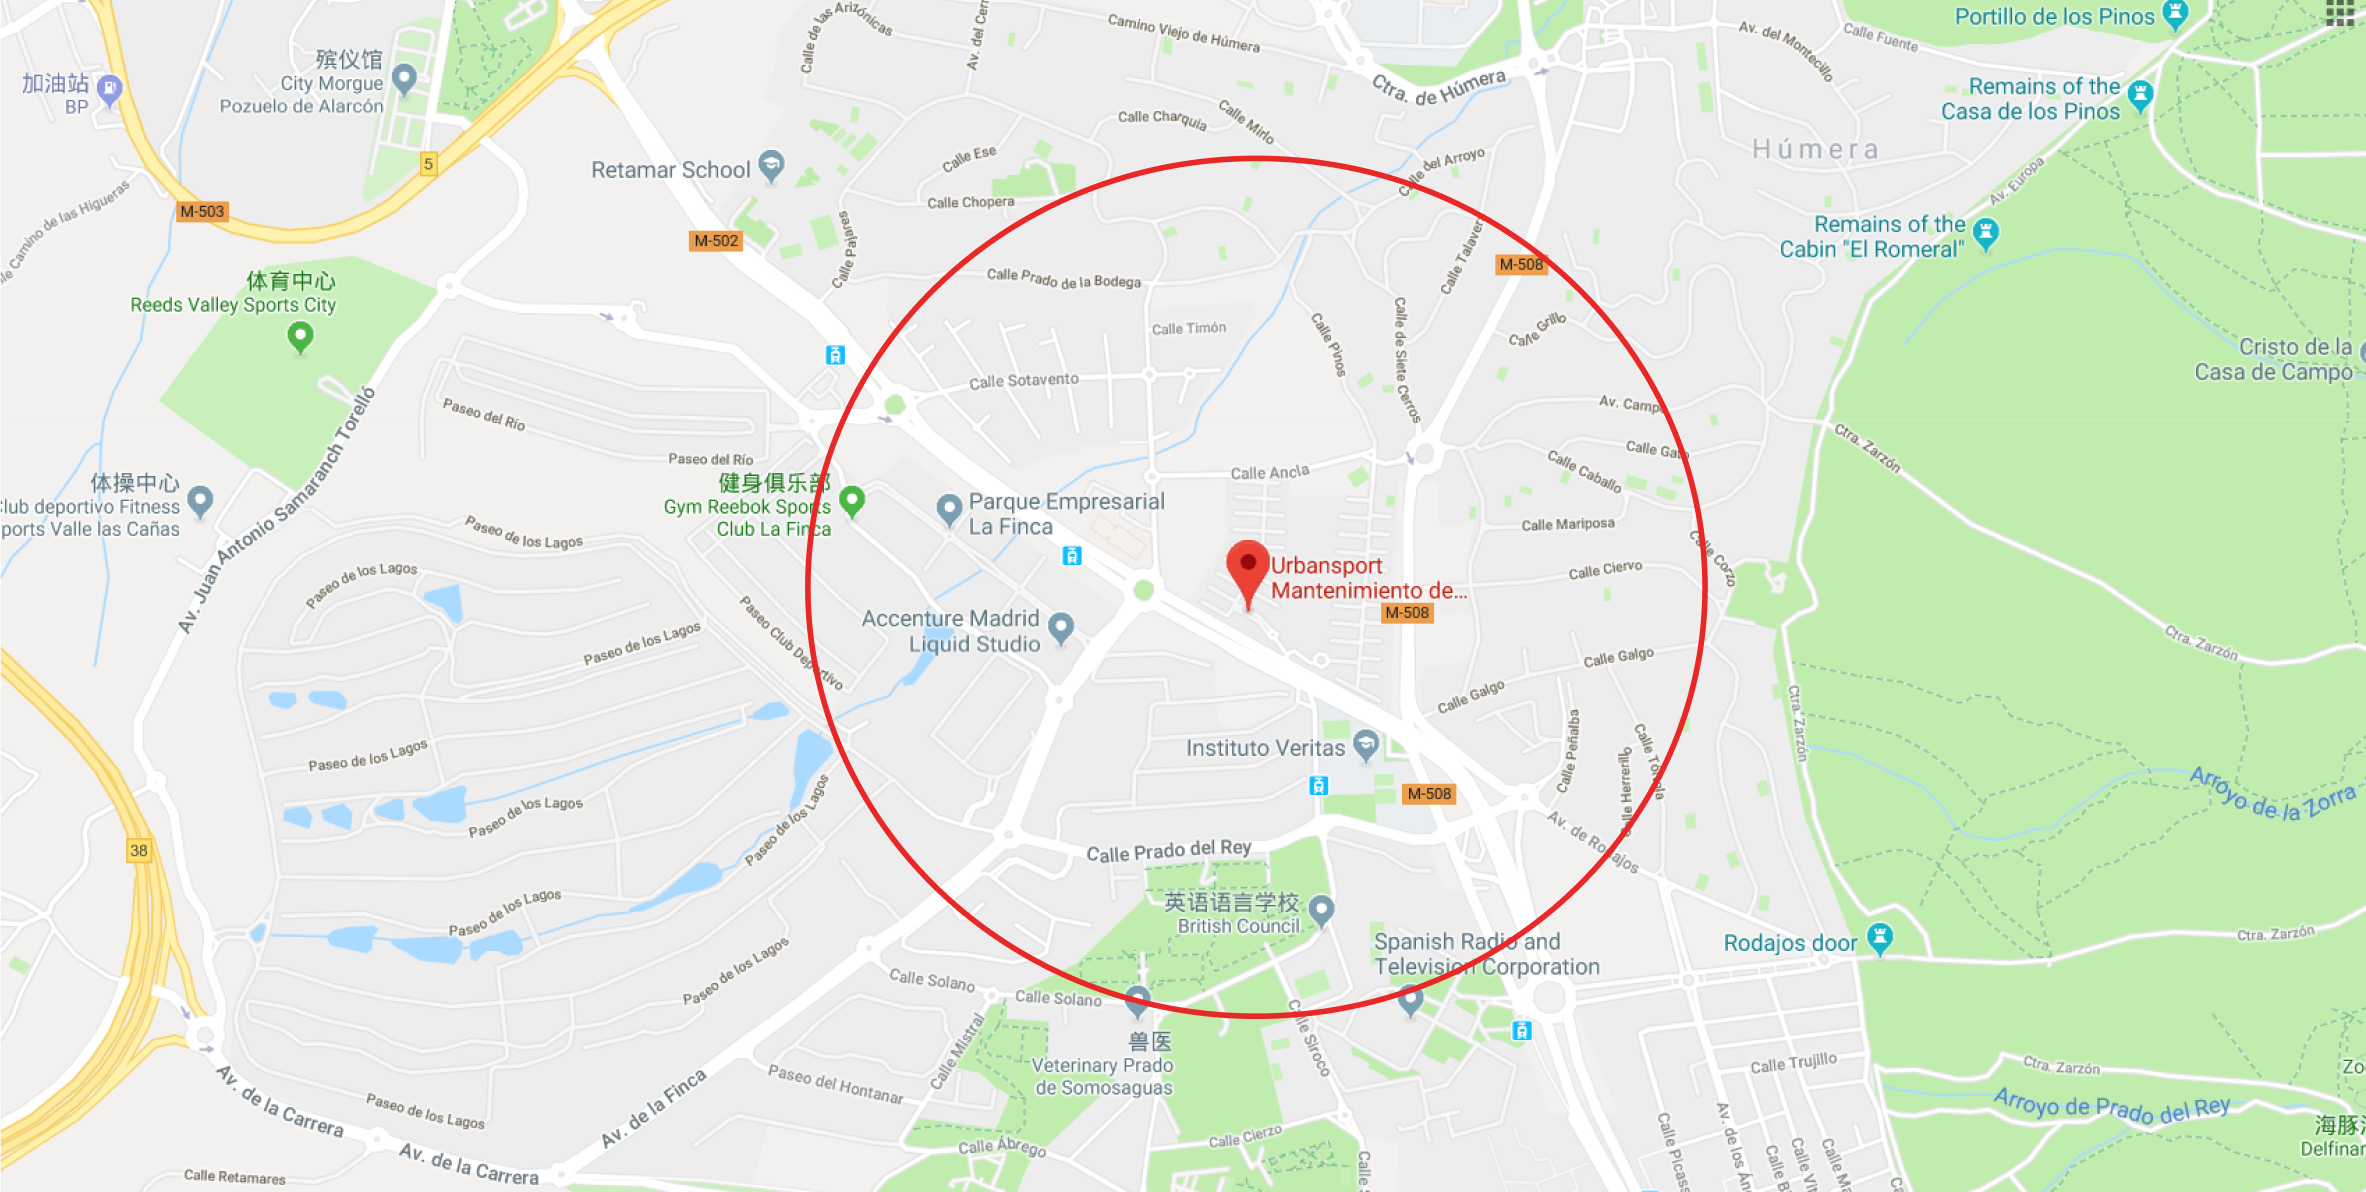
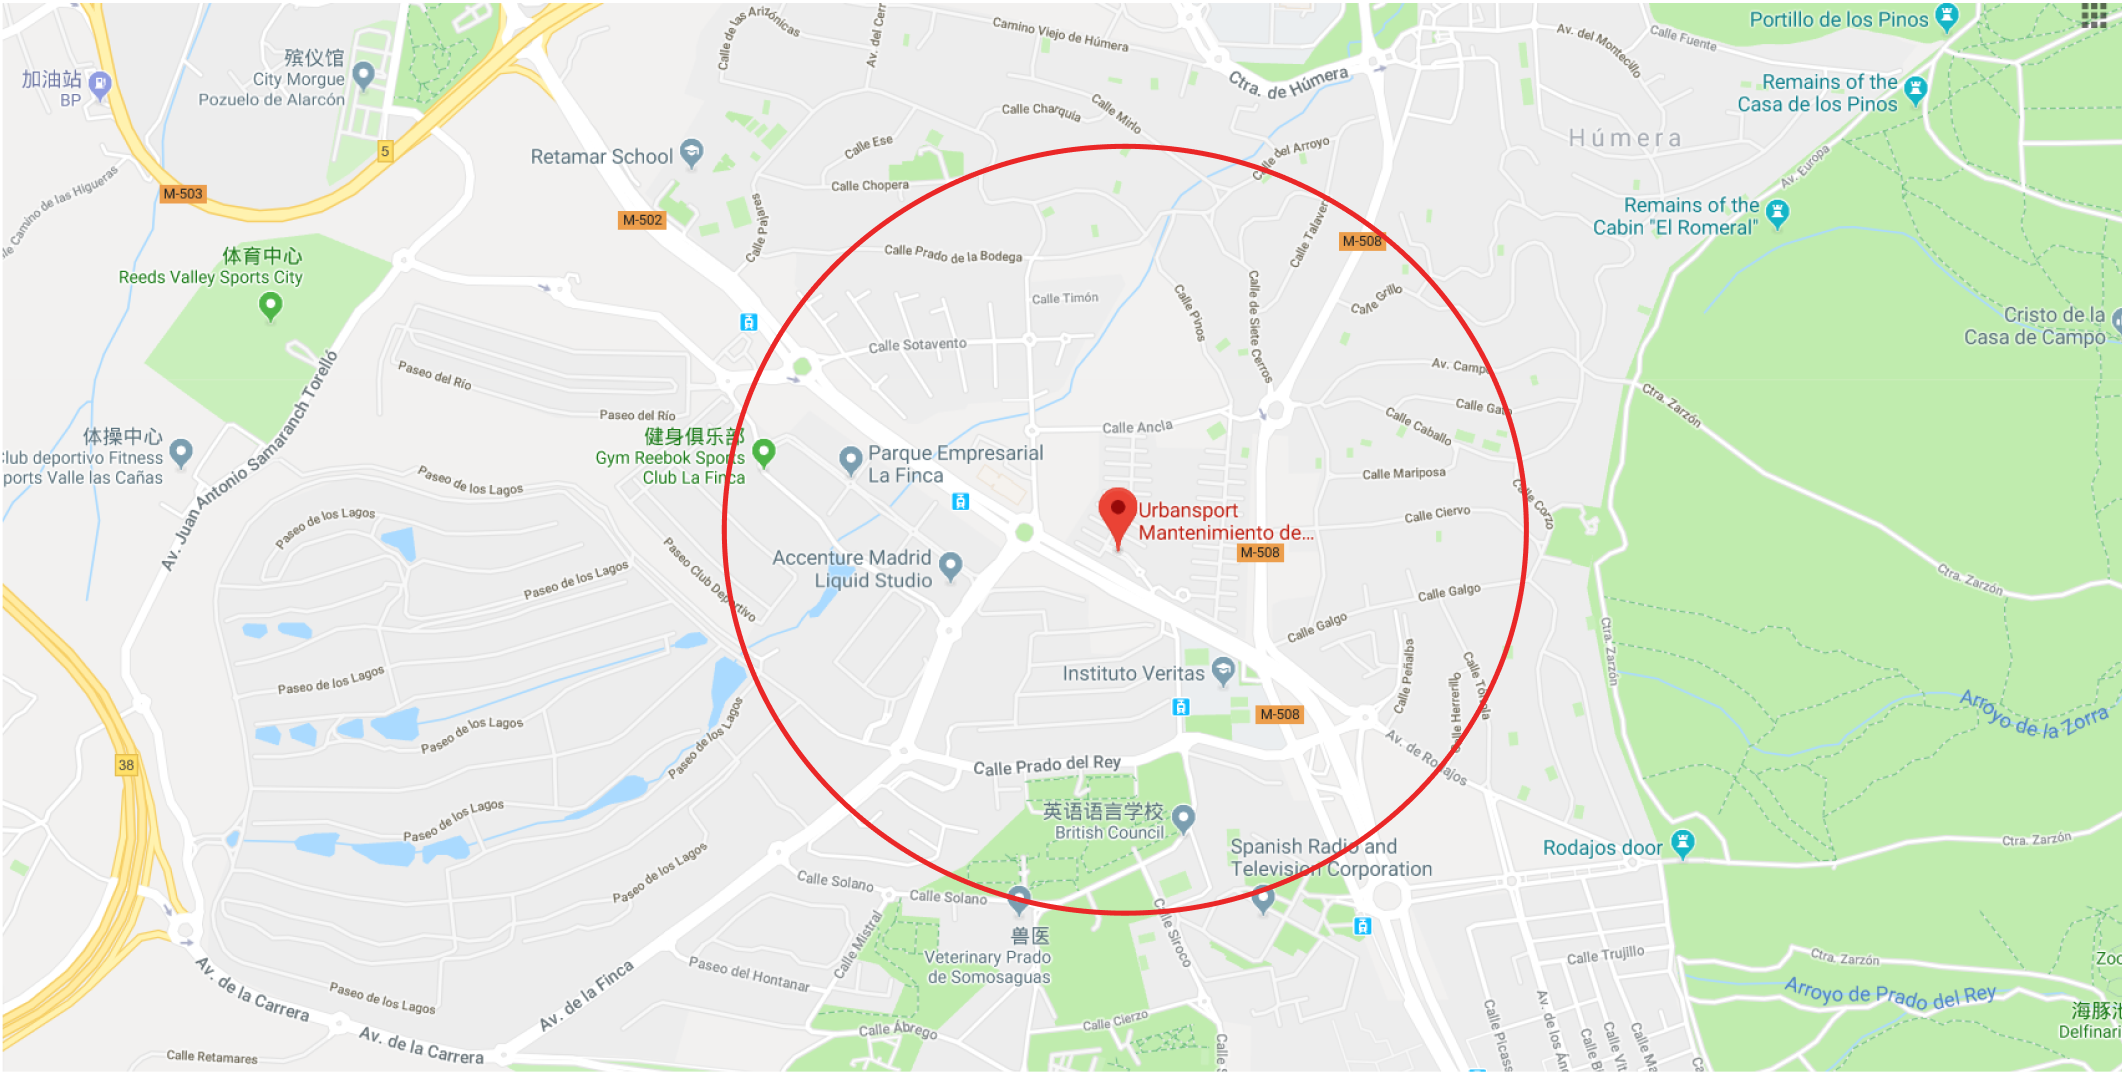
map functionality and change from hobbies to groups

diff --git a/pages/eventResults.html b/pages/eventResults.html
@@ -55,17 +55,12 @@
         <div class="navbar">
           <ul class="nav nav-list">
             <li><a href="../index.html"><i class="fas fa-th-large"></i> Dashboard</a></li>
-<<<<<<< HEAD
-            <li><a href="selectHobbyTask1.html"><i class="fas fa-search"></i> Explore Hobbies</a></li>
+            <li><a href="selectHobbyTask1.html"><i class="fas fa-search"></i> Explore Groups</a></li>
             <li class="active"><a href="eventResults.html"><i class="fas fa-calendar-alt"></i> Events</a></li>
-=======
-            <li><a href="../pages/selectHobbyTask1.html"><i class="fas fa-search"></i> Explore Hobbies</a></li>
-            <li class="active"><a href="../pages/eventResults.html"><i class="fas fa-calendar-alt"></i> Events</a></li>
->>>>>>> 7f60f68c6cbd1ad69116b3836e712dbfebb6b14e
             <li class="dropdown"><a class="dropdown-toggle" data-toggle="dropdown" href="#"s><i class="fas fa-users"></i> My Groups</a>
               <ul class="dropdown-menu" role="menu">
                 <li><a href="#">Padel Moncloa</a></li>
-                <li><a href="../pages/Aluche group page.html">Aluche Group Padel</a></li>
+                <li><a href="Aluche group page.html">Aluche Group Padel</a></li>
                 <li><a href="#">Japanese in Madrid</a></li>
                 <li class="divider"></li>
                 <li><a href="#">Create a new group</a></li>
@@ -84,7 +79,7 @@
       <div class="col-md-8" id="main-content-scroll">
 
         <div id="group_title" style="background-color:#4682B4">
-          <h3 style="text-align: center; color:white;">Results</h3>
+          <h3 style="text-align: center; color:white;">Results obtained</h3>
         </div>
 
         <a data-toggle="modal" data-target="#underConst">

diff --git a/pages/filtersTask1.html b/pages/filtersTask1.html
@@ -55,7 +55,7 @@
         <div class="navbar">
           <ul class="nav nav-list">
             <li><a href="../index.html"><i class="fas fa-th-large"></i> Dashboard</a></li>
-            <li class="active"><a href="../pages/selectHobbyTask1.html"><i class="fas fa-search"></i> Explore Hobbies</a></li>
+            <li class="active"><a href="../pages/selectHobbyTask1.html"><i class="fas fa-search"></i> Explore Groups</a></li>
             <li><a href="../pages/eventResults.html"><i class="fas fa-calendar-alt"></i> Events</a></li>
             <li class="dropdown"><a class="dropdown-toggle" data-toggle="dropdown" href="#" s><i
                   class="fas fa-users"></i> My Groups</a>
@@ -96,7 +96,7 @@
 
           <h4>Your ideal location:</h4>
           <div class="container-fluid" id="maps">
-            <img src="../img/map3task1.png" alt="mymap" style="height: 350px;">
+            <img src="../img/map3task1.png" alt="mymap" style="height: 350px;" id="themap">
             <h5>Area no more than:
               <input class="form-control" type="number" value="3" id="number-input"
                 style=" width: 60px; height: 40px; display: inline;">
@@ -135,6 +135,11 @@
   b1.onclick = function() {
      b1.style.background = "#00a1d3";
      b1.style.color="white";
+  }
+
+  var numinput= document.getElementById("number-input");
+  numinput.onclick = function(){
+    document.getElementById("themap").src = "../img/map5task1.png";
   }
 </script>
 <!-- Footer -->

diff --git a/pages/groupResults.html b/pages/groupResults.html
@@ -55,7 +55,7 @@
         <div class="navbar">
           <ul class="nav nav-list">
             <li><a href="../index.html"><i class="fas fa-th-large"></i> Dashboard</a></li>
-            <li class="active"><a href="../pages/selectHobbyTask1.html"><i class="fas fa-search"></i> Explore Hobbies</a></li>
+            <li class="active"><a href="../pages/selectHobbyTask1.html"><i class="fas fa-search"></i> Explore Groups</a></li>
             <li><a href="../pages/eventResults.html"><i class="fas fa-calendar-alt"></i> Events</a></li>
             <li class="dropdown"><a class="dropdown-toggle" data-toggle="dropdown" href="#" s><i
                   class="fas fa-users"></i> My Groups</a>

diff --git a/pages/selectHobbyTask1.html b/pages/selectHobbyTask1.html
@@ -55,7 +55,7 @@
         <div class="navbar">
           <ul class="nav nav-list">
             <li><a href="../index.html"><i class="fas fa-th-large"></i> Dashboard</a></li>
-            <li class="active"><a href="../pages/selectHobbyTask1.html"><i class="fas fa-search"></i> Explore Hobbies</a></li>
+            <li class="active"><a href="../pages/selectHobbyTask1.html"><i class="fas fa-search"></i> Explore Groups</a></li>
             <li><a href="../pages/eventResults.html"><i class="fas fa-calendar-alt"></i> Events</a></li>
             <li class="dropdown"><a class="dropdown-toggle" data-toggle="dropdown" href="#" s><i
                   class="fas fa-users"></i> My Groups</a>

diff --git a/pages/Padel match page.html b/pages/Padel match page.html
@@ -76,7 +76,7 @@
         <div class="navbar">
           <ul class="nav nav-list">
             <li><a href="../index.html"><i class="fas fa-th-large"></i> Dashboard</a></li>
-            <li><a href="../pages/selectHobbyTask1.html"><i class="fas fa-search"></i> Explore Hobbies</a></li>
+            <li><a href="../pages/selectHobbyTask1.html"><i class="fas fa-search"></i> Explore Groups</a></li>
             <li class="active"><a href="../pages/eventResults.html"><i class="fas fa-calendar-alt"></i> Events</a></li>
             <li class="dropdown"><a class="dropdown-toggle" data-toggle="dropdown" href="#" s><i
                   class="fas fa-users"></i> My Groups</a>

diff --git a/index.html b/index.html
@@ -67,7 +67,7 @@
         <div class="navbar">
           <ul class="nav nav-list">
             <li class="active"><a href="index.html"><i class="fas fa-th-large"></i> Dashboard</a></li>
-            <li><a href="pages/selectHobbyTask1.html"><i class="fas fa-search"></i> Explore Hobbies</a></li>
+            <li><a href="pages/selectHobbyTask1.html"><i class="fas fa-search"></i> Explore Groups</a></li>
             <li><a href="pages/eventResults.html"><i class="fas fa-calendar-alt"></i> Events</a></li>
             <li class="dropdown"><a class="dropdown-toggle" data-toggle="dropdown" href="#" s><i
                   class="fas fa-users"></i> My Groups</a>

diff --git a/pages/modals.html b/pages/modals.html
@@ -67,7 +67,7 @@
     <div class="navbar">
         <ul class="nav nav-list">
             <li class="active"><a href="../index.html"><i class="fas fa-th-large"></i> Dashboard</a></li>
-            <li><a href="selectHobbyTask1.html"><i class="fas fa-search"></i> Explore Hobbies</a></li>
+            <li><a href="selectHobbyTask1.html"><i class="fas fa-search"></i> Explore Groups</a></li>
             <li><a href="#all"><i class="fas fa-calendar-alt"></i> Events</a></li>
             <li><a href="#all"><i class="fas fa-users"></i> My Groups</a></li>
             <li><a href="#all"><i class="far fa-comment-alt border-bottom"></i> Messenger</a></li>

diff --git a/pages/chatting page.html b/pages/chatting page.html
@@ -67,7 +67,7 @@
           <ul class="nav nav-list">
             <li><a href="../index.html"><i class="fas fa-th-large"></i> Dashboard</a></li>
             <li class="active"><a href="../pages/selectHobbyTask1.html"><i class="fas fa-search"></i> Explore
-                Hobbies</a></li>
+                Groups</a></li>
             <li><a href="../pages/eventResults.html"><i class="fas fa-calendar-alt"></i> Events</a></li>
             <li class="dropdown"><a class="dropdown-toggle" data-toggle="dropdown" href="#" s><i
                   class="fas fa-users"></i> My Groups</a>

diff --git a/pages/selectCategoryTask1.html b/pages/selectCategoryTask1.html
@@ -56,7 +56,7 @@
           <ul class="nav nav-list">
             <li><a href="../index.html"><i class="fas fa-th-large"></i> Dashboard</a></li>
             <li class="active"><a href="../pages/selectHobbyTask1.html"><i class="fas fa-search"></i> Explore
-                Hobbies</a></li>
+                Groups</a></li>
             <li><a href="../pages/eventResults.html"><i class="fas fa-calendar-alt"></i> Events</a></li>
             <li class="dropdown"><a class="dropdown-toggle" data-toggle="dropdown" href="#" s><i
                   class="fas fa-users"></i> My Groups</a>
